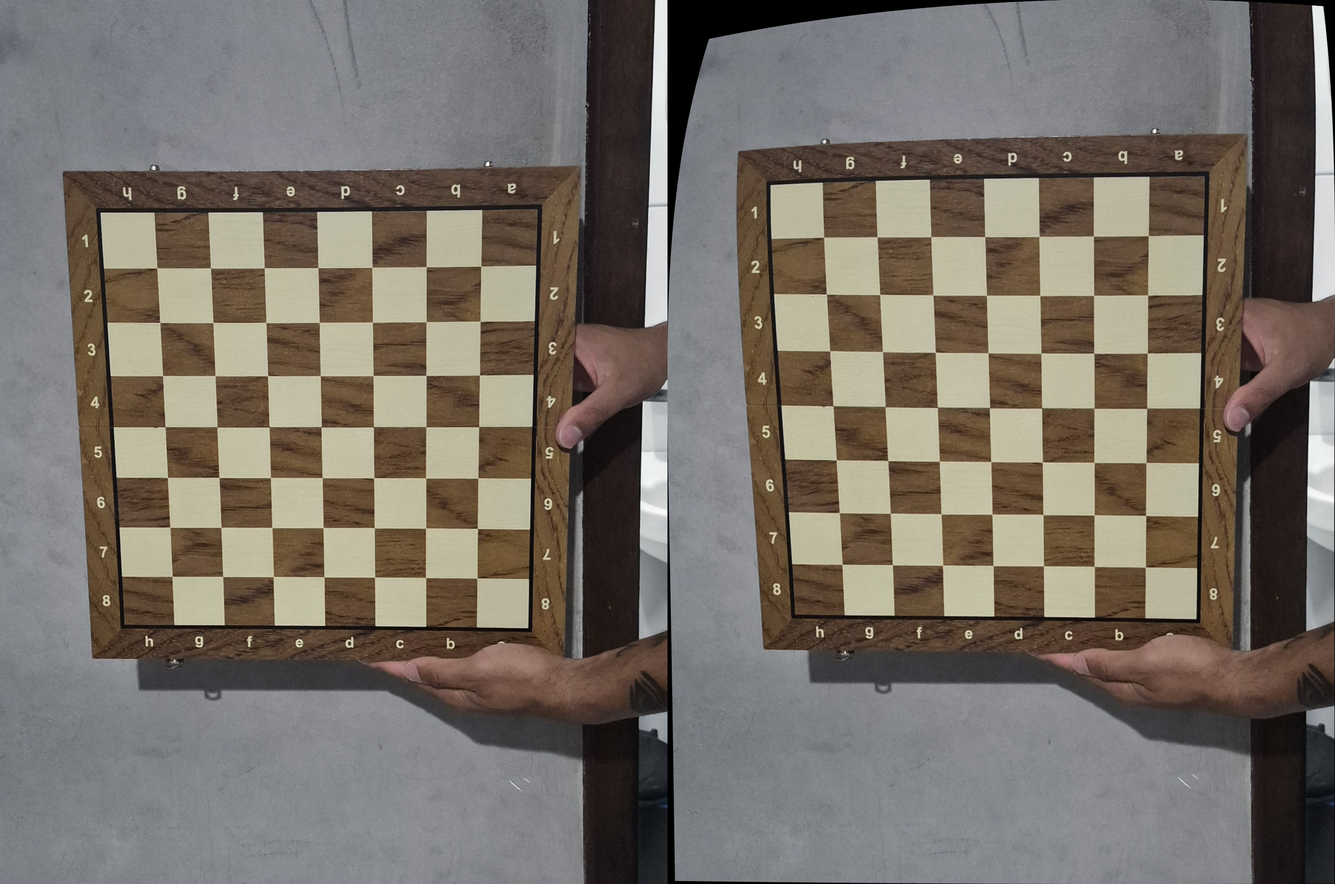
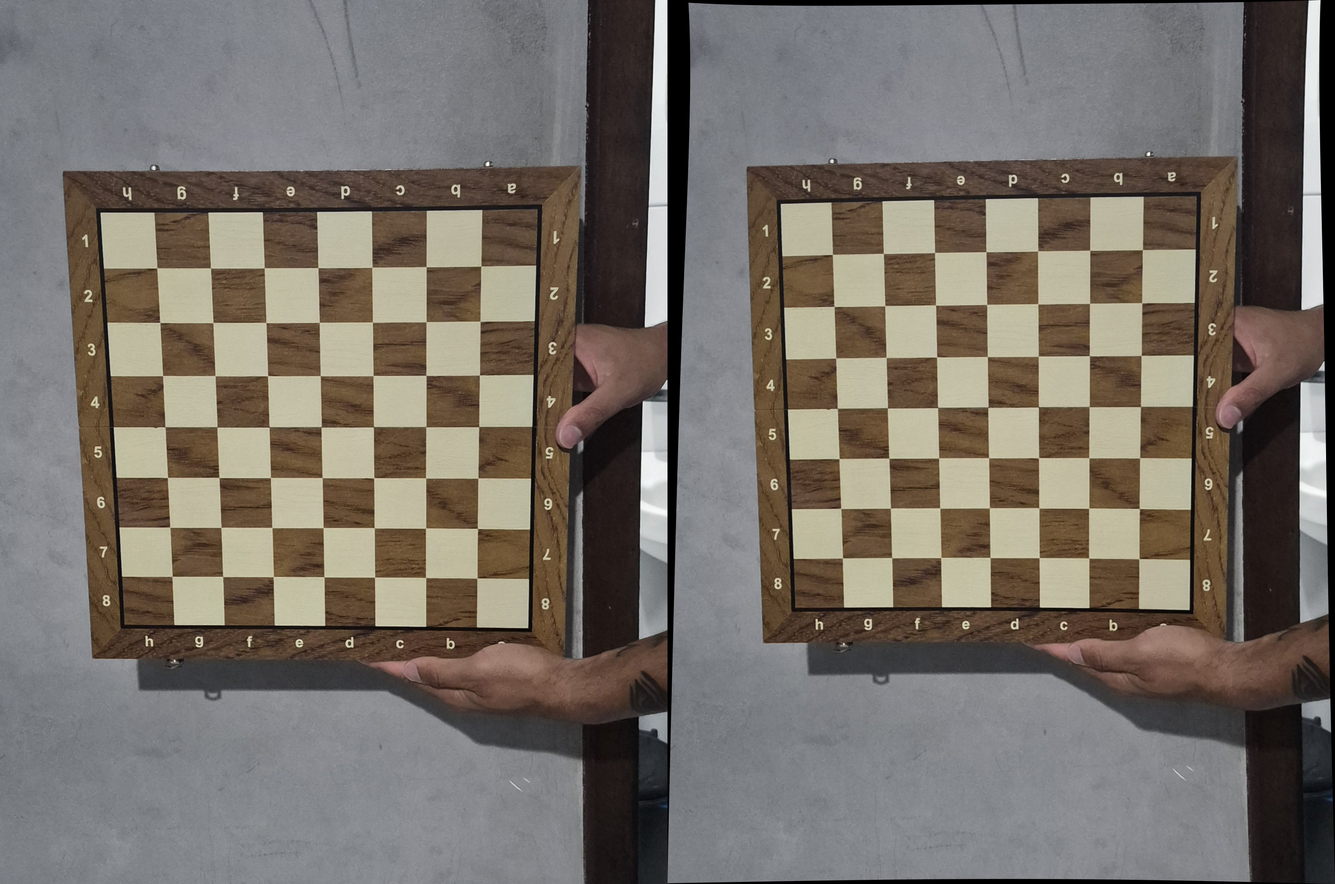
TAO2

diff --git a/src/main.py b/src/main.py
@@ -17,16 +17,13 @@ import glob
 import os
 import json
 
-# ============================================================
-# CONFIGURAÇÃO — AJUSTE AQUI
-# ============================================================
+
 
 # Pasta com as fotos do tabuleiro (aceita jpg, jpeg, png)
 IMAGES_PATH = "img/*.jpg"
 
-# Número de CANTOS INTERNOS do tabuleiro (não é o número de quadrados!)
+# Número de CANTOS INTERNOS do tabuleiro (não é o número de quadrados)
 # Tabuleiro de xadrez padrão: 8x8 quadrados (a-h, 1-8) -> 7x7 cantos internos.
-# A moldura de madeira NÃO conta; só a área quadriculada.
 CHESSBOARD_SIZE = (7, 7)   # (colunas, linhas) de cantos internos
 
 # Tamanho de cada quadrado do tabuleiro, em milímetros
@@ -35,9 +32,7 @@ SQUARE_SIZE_MM = 40.0      # 4cm = 40mm
 # Pasta de saída para os resultados
 OUTPUT_DIR = "calibracao_resultados"
 
-# ============================================================
 # 1. PREPARAR PONTOS 3D DO PADRÃO (mundo real, Z=0, plano do tabuleiro)
-# ============================================================
 
 os.makedirs(OUTPUT_DIR, exist_ok=True)
 
@@ -57,11 +52,7 @@ criteria = (cv2.TERM_CRITERIA_EPS + cv2.TERM_CRITERIA_MAX_ITER, 30, 0.001)
 
 def desenhar_padrao_estilo_tutorial(img, corners, chessboard_size):
     """
-    Recria a visualização do tutorial oficial do OpenCV (findChessboardCorners):
-    cada COLUNA do tabuleiro recebe uma cor do arco-íris, os cantos dessa coluna
-    são ligados por uma linha, e cada canto vira um círculo colorido.
-
-    Serve como checagem visual: se as linhas seguirem a grade de forma organizada,
+    Serve como checagem visual, se as linhas seguirem a grade de forma organizada,
     a ordem/orientação dos cantos foi detectada corretamente. Desenhamos manualmente
     (em vez de usar cv2.drawChessboardCorners) porque em fotos de alta resolução os
     marcadores padrão do OpenCV ficam pequenos demais para enxergar.
@@ -90,9 +81,7 @@ def desenhar_padrao_estilo_tutorial(img, corners, chessboard_size):
 
     return vis
 
-# ============================================================
 # 2. DETECTAR OS CANTOS EM CADA IMAGEM
-# ============================================================
 
 imagens = sorted(glob.glob(IMAGES_PATH))
 if len(imagens) == 0:
@@ -102,26 +91,26 @@ print(f"Encontradas {len(imagens)} imagens. Processando...")
 
 image_size = None
 
+# para cada imagem
 for fname in imagens:
     img = cv2.imread(fname)
     if img is None:
         print(f"  [aviso] não consegui abrir {fname}")
         continue
 
-    gray = cv2.cvtColor(img, cv2.COLOR_BGR2GRAY)
+    gray = cv2.cvtColor(img, cv2.COLOR_BGR2GRAY)    # transforma em escala de cinza
     if image_size is None:
         image_size = gray.shape[::-1]  # (largura, altura)
 
-    # Tenta achar os cantos com o detector mais moderno e robusto (SB = "Sector Based"),
-    # que lida melhor com tabuleiros de baixo contraste / madeira / iluminação irregular.
-    found, corners = cv2.findChessboardCornersSB(
+    # Tenta achar os cantos com o detector 
+    found, corners = cv2.findChessboardCornersSB(   # essa função funcionou melhor com tabuleiros que não são pretos e brancos
         gray, CHESSBOARD_SIZE,
         flags=cv2.CALIB_CB_EXHAUSTIVE + cv2.CALIB_CB_ACCURACY
     )
 
     # Se não achou, tenta o detector clássico como fallback
     if not found:
-        found, corners = cv2.findChessboardCorners(
+        found, corners = cv2.findChessboardCorners( # essa função de fallback chama o metodo mais clássico para testar
             gray, CHESSBOARD_SIZE,
             flags=cv2.CALIB_CB_ADAPTIVE_THRESH + cv2.CALIB_CB_NORMALIZE_IMAGE
                   + cv2.CALIB_CB_FAST_CHECK
@@ -135,8 +124,7 @@ for fname in imagens:
         imgpoints.append(corners_refined)
         nomes_usados.append(fname)
 
-        # Salva uma visualização dos cantos detectados (útil para o relatório),
-        # no estilo colorido do tutorial oficial do OpenCV
+        # Salva uma visualização dos cantos detectados
         vis = desenhar_padrao_estilo_tutorial(img, corners_refined, CHESSBOARD_SIZE)
         out_name = os.path.join(OUTPUT_DIR, f"cantos_{os.path.basename(fname)}")
         cv2.imwrite(out_name, vis)
@@ -147,15 +135,8 @@ for fname in imagens:
 
 print(f"\nTotal de imagens usadas na calibração: {len(objpoints)} de {len(imagens)}")
 
-if len(objpoints) < 5:
-    raise SystemExit(
-        "Poucas imagens com cantos detectados (mínimo recomendado: ~10-15). "
-        "Verifique CHESSBOARD_SIZE, iluminação e foco das fotos."
-    )
 
-# ============================================================
 # 3. CALIBRAR A CÂMERA
-# ============================================================
 
 print("\nCalibrando câmera...")
 ret, mtx, dist, rvecs, tvecs = cv2.calibrateCamera(
@@ -169,9 +150,7 @@ print(mtx)
 print("\nCoeficientes de distorção [k1, k2, p1, p2, k3]:")
 print(dist.ravel())
 
-# ============================================================
-# 4. CALCULAR ERRO DE REPROJEÇÃO POR IMAGEM (para o relatório)
-# ============================================================
+# 4. CALCULAR ERRO DE REPROJEÇÃO POR IMAGEM
 
 print("\nErro de reprojeção por imagem:")
 erros_por_imagem = []
@@ -188,34 +167,8 @@ for i in range(len(objpoints)):
 erro_medio = float(np.mean(erros_por_imagem))
 print(f"\nErro médio de reprojeção: {erro_medio:.4f} px")
 
-# ============================================================
-# 5. SALVAR RESULTADOS (matrizes + coeficientes) EM ARQUIVO
-# ============================================================
 
-np.savez(
-    os.path.join(OUTPUT_DIR, "calibracao.npz"),
-    mtx=mtx, dist=dist, rvecs=rvecs, tvecs=tvecs,
-    image_size=image_size, erro_rms=ret
-)
-
-resultado_json = {
-    "erro_rms_reprojeção": ret,
-    "erro_medio_por_imagem": erro_medio,
-    "image_size": image_size,
-    "matriz_intrinseca_K": mtx.tolist(),
-    "coeficientes_distorcao": dist.ravel().tolist(),
-    "numero_imagens_usadas": len(objpoints),
-    "chessboard_size": CHESSBOARD_SIZE,
-    "square_size_mm": SQUARE_SIZE_MM,
-}
-with open(os.path.join(OUTPUT_DIR, "calibracao.json"), "w") as f:
-    json.dump(resultado_json, f, indent=2, ensure_ascii=False)
-
-print(f"\nResultados salvos em '{OUTPUT_DIR}/calibracao.npz' e 'calibracao.json'")
-
-# ============================================================
-# 6. REMOVER A DISTORÇÃO DE UMA IMAGEM DE TESTE
-# ============================================================
+# 5. REMOVER A DISTORÇÃO DE UMA IMAGEM DE TESTE
 
 img_teste = cv2.imread(nomes_usados[0])
 h, w = img_teste.shape[:2]
@@ -229,21 +182,11 @@ cv2.imwrite(os.path.join(OUTPUT_DIR, "comparacao_distorcao.jpg"), comparacao)
 cv2.imwrite(os.path.join(OUTPUT_DIR, "imagem_corrigida.jpg"), img_undist)
 print(f"\nComparação distorcida/corrigida salva em '{OUTPUT_DIR}/comparacao_distorcao.jpg'")
 
-# ============================================================
-# 7. EXPERIMENTO: DADO UM PONTO 3D, PREVER ONDE ELE APARECE NA IMAGEM
-# ============================================================
-#
-# Ideia: usar a pose (rvec, tvec) já calculada para uma das fotos do
-# tabuleiro (ela já corresponde a uma posição real conhecida da câmera
-# em relação ao tabuleiro). A partir disso, escolhemos pontos 3D no
-# referencial do tabuleiro (em mm) e projetamos na imagem com
-# cv2.projectPoints. Depois comparamos com a posição observada.
-#
-# Você pode:
-#   (a) escolher pontos que SÃO cantos do tabuleiro (já sabemos a posição
-#       observada, pois foi detectada no passo 2) -> comparação automática
-#   (b) escolher um ponto 3D arbitrário fora do tabuleiro, mas medido com
-#       trena/régua, e clicar manualmente na imagem para comparar
+
+
+
+
+# EXPERIMENTO DE PROJEÇÂO DE PONTOS
 
 print("\n=== EXPERIMENTO: PROJEÇÃO DE PONTOS 3D -> 2D ===")
 
@@ -255,7 +198,7 @@ tvec_ref = tvecs[idx_ref]
 
 print(f"Imagem de referência: {img_ref_nome}")
 
-# Exemplo (a): reprojetar os próprios cantos do tabuleiro dessa imagem
+# reprojetar os próprios cantos do tabuleiro dessa imagem
 # e comparar com os pontos detectados originalmente.
 pontos_3d_exemplo = objp  # todos os cantos, em mm, no plano do tabuleiro (Z=0)
 pontos_2d_previstos, _ = cv2.projectPoints(
@@ -278,16 +221,6 @@ cv2.imwrite(os.path.join(OUTPUT_DIR, "experimento_projecao.jpg"), img_exp)
 print(f"Imagem do experimento salva em '{OUTPUT_DIR}/experimento_projecao.jpg'")
 print("(círculo verde = ponto observado, ponto vermelho = ponto previsto pela projeção)")
 
-# --------------------------------------------------------------
-# Exemplo (b): projetar um ponto 3D arbitrário definido por você.
-# Descomente e edite as coordenadas (em mm, no referencial do
-# tabuleiro: X para a direita, Y para baixo, Z para fora do tabuleiro)
-# --------------------------------------------------------------
-#
-# ponto_3d_customizado = np.array([[[120.0, 80.0, -50.0]]], dtype=np.float32)
-# ponto_2d_previsto, _ = cv2.projectPoints(
-#     ponto_3d_customizado, rvec_ref, tvec_ref, mtx, dist
-# )
-# print("Ponto 3D customizado projetado em:", ponto_2d_previsto.ravel())
+
 
 print("\nConcluído. Confira a pasta:", OUTPUT_DIR)

diff --git a/README.md b/README.md
@@ -1,0 +1,80 @@
+# Calibração de Câmera (Zhang / OpenCV)
+
+Trabalho de Visão Computacional (UFPR) que estima os parâmetros **intrínsecos**
+(foco, ponto principal) e de **distorção** de uma câmera a partir de fotos de um
+tabuleiro de xadrez, usando o método clássico de Zhang (2000) e a OpenCV.
+
+**Resultado:** erro médio de reprojeção de **1,66 px** com 4 imagens (196
+correspondências).
+
+## Como rodar
+
+```bash
+venv/bin/python src/main.py
+```
+
+Lê `img/*.jpg` e grava as imagens de resultado em `calibracao_resultados/`.
+
+## Pipeline
+
+1. **Padrão** — pontos 3D dos cantos internos em grade 7×7, quadrado de 40 mm, plano `Z=0`.
+2. **Detecção** — `findChessboardCornersSB` (fallback: `findChessboardCorners`) + `cornerSubPix`.
+3. **Calibração** — `calibrateCamera` minimiza o erro de reprojeção (Levenberg–Marquardt).
+4. **Verificação** — `undistort` remove a distorção e a pose de uma imagem é usada para reprojetar os cantos 3D.
+
+## Resultados gerados
+
+| Arquivo | Conteúdo |
+|---|---|
+| `cantos_*.jpg` | Cantos detectados, coloridos por coluna (checagem da ordem da grade) |
+| `comparacao_distorcao.jpg` | Imagem original (esquerda) vs. corrigida (direita) |
+| `imagem_corrigida.jpg` | Imagem sem distorção |
+| `experimento_projecao.jpg` | Pontos observados (verde) vs. projetados (vermelho) |
+
+## Parâmetros estimados
+
+```
+K = [[3379.70,    0.00,  883.74],      k = (k1, k2, p1, p2, k3)
+     [   0.00, 3178.99, 1573.11],           = (-0.3166, 2.9547, -0.0474, -0.0103, -7.3389)
+     [   0.00,    0.00,    1.00]]
+```
+
+RMS global: 1,92 px — por imagem: `1.jpg` 0,94 · `5.jpg` 1,68 · `6.jpg` 1,61 · `8.jpg` 2,41.
+
+## Relatório
+
+`relatorio.tex` — artigo SBC uma coluna (3 páginas, em português).
+
+```bash
+pdflatex relatorio.tex && pdflatex relatorio.tex
+```
+
+Usa `sbclatex.cls` se o modelo oficial da SBC estiver disponível; senão compila
+com um `article` de diagramação equivalente. As figuras de `figs/` são cópias
+reduzidas das de `calibracao_resultados/`.
+
+## Estrutura
+
+```
+src/main.py             pipeline completo
+img/                    fotos do tabuleiro (entradas)
+calibracao_resultados/  saídas (geradas pelo script)
+figs/                   figuras reduzidas usadas no relatório
+relatorio.tex           artigo LaTeX
+```
+## Para Testar
+```bash
+
+#1
+python3 -m venv venv
+
+#2
+source venv/bin/activate
+
+#3 
+pip install opencv-python
+
+#4
+
+python3 src/main.py
+```
